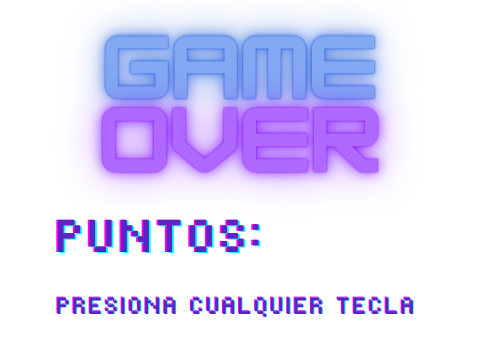
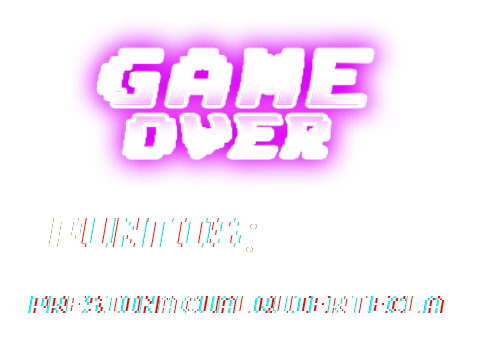
Nuevo gameover

diff --git a/visual/comodines.css b/visual/comodines.css
@@ -1,15 +1,14 @@
 @font-face {
   font-family: "myFirstFont";
-  src: url('../fonts/JosefinSans-Italic-VariableFont_wght.ttf');
+  src: url("/fonts/JosefinSans-Italic-VariableFont_wght.ttf");
   font-family: "ARCADE CLASSIC";
-  src: url('/fonts/ARCADE.TTF');
+  src: url("/fonts/ARCADECLASSIC.TTF");
 }
-
 
 * {
   margin: 0px;
   padding: 0px;
-  box-sizing:border-box;
+  box-sizing: border-box;
   font-size: 18px;
   font-family: "myFirstFont";
   font-style: italic;
@@ -28,7 +27,7 @@ body {
 /* Efecto blur */
 #container {
   height: 550px;
-  width:950px;
+  width: 950px;
   border-radius: 6px;
   box-shadow: 0 10px 30px #000;
   border: 1px solid #ffffff40;
@@ -44,17 +43,15 @@ body {
 
 /* Sistema de cartas */
 
-.conteinerCards{
-  position:relative;
-  width:100%;
+.conteinerCards {
+  position: relative;
+  width: 100%;
   /* min-height:100vh; */
-  display:flex;
+  display: flex;
   justify-content: center;
   align-items: center;
-  overflow: hidden
+  overflow: hidden;
 }
-
-
 
 .swiper-container {
   width: 100%;
@@ -66,97 +63,94 @@ body {
   background-position: center;
   background-size: cover;
   width: 320px;
-  box-shadow: 0 15px 50px rgba(0,0,0,0.2);
+  box-shadow: 0 15px 50px rgba(0, 0, 0, 0.2);
   filter: blur(4px);
-  background:#2a465f;
+  background: #2a465f;
   /* background:#fff; */
-  border-radius:10px;
+  border-radius: 10px;
 }
 
-.swiper-slide-active{
+.swiper-slide-active {
   filter: blur(0px);
   /* background:#fff; */
-  background:#d3d9dd;
-
+  background: #d3d9dd;
 }
 
-.comodinBox{
-  position:relative;
-  width:100%;
-  padding:18%;
+.comodinBox {
+  position: relative;
+  width: 100%;
+  padding: 18%;
   padding-top: 120px; /* Tamaño de la carta */
-  color:#999;
+  color: #999;
 }
 
-.comodinBox .imageComodin{
+.comodinBox .imageComodin {
   position: absolute;
-  top:20px;
-  right:30px;
-  height:70px;
-  opacity:0.6;
+  top: 20px;
+  right: 30px;
+  height: 70px;
+  opacity: 0.6;
 }
 
-.comodinBox .details{
-  display:flex;
+.comodinBox .details {
+  display: flex;
   align-items: center;
-  margin-top:20px
+  margin-top: 20px;
 }
 
-.comodinBox .details .imgBox{
-  position:relative;
-  width:60px;
-  height:60px;
-  border-radius:50px;
-  overflow:hidden;
+.comodinBox .details .imgBox {
+  position: relative;
+  width: 60px;
+  height: 60px;
+  border-radius: 50px;
+  overflow: hidden;
   margin-right: 10px;
 }
 
-.comodinBox .details .imgBox img{
-  position:absolute;
-  top:0;
-  left:0;
-  width:100%;
-  height:100%;
-  object-fit:cover;
+.comodinBox .details .imgBox img {
+  position: absolute;
+  top: 0;
+  left: 0;
+  width: 100%;
+  height: 100%;
+  object-fit: cover;
 }
 
-
-.comodinBox .details h3{
+.comodinBox .details h3 {
   font-family: myFirstFont;
-  font-size:20px;
+  font-size: 20px;
   font-weight: 700px;
   letter-spacing: 1px;
-  color:#2196f3;
+  color: #2196f3;
   line-height: 1.1em;
 }
 
-.comodinBox .details h3 span{
+.comodinBox .details h3 span {
   font-family: myFirstFont;
   font-weight: 700px;
-  font-size:16px;
-  color:#666;
+  font-size: 16px;
+  color: #666;
 }
 
 .swiper-container-3d .swiper-slide-shawdow-left,
-.swiper-container-3d .swiper-slide-shawdow-right
-{
+.swiper-container-3d .swiper-slide-shawdow-right {
   background-image: none;
 }
 
-.contenedorTextoIndicativo{
-  display:flex;
+.contenedorTextoIndicativo {
+  display: flex;
   justify-content: space-around;
 }
 
-.imgcont{
-  width:60px
+.imgcont {
+  width: 60px;
 }
 
-.textocont{
+.textocont {
   font-family: "ARCADE CLASSIC", "Arial";
-  color:#22d3cb;
-  font-size:40px;
+  color: #22d3cb;
+  font-size: 30px;
+  letter-spacing: 5px;
   font-style: normal;
-  font-weight: bold; 
   margin-top: 15px;
 }
